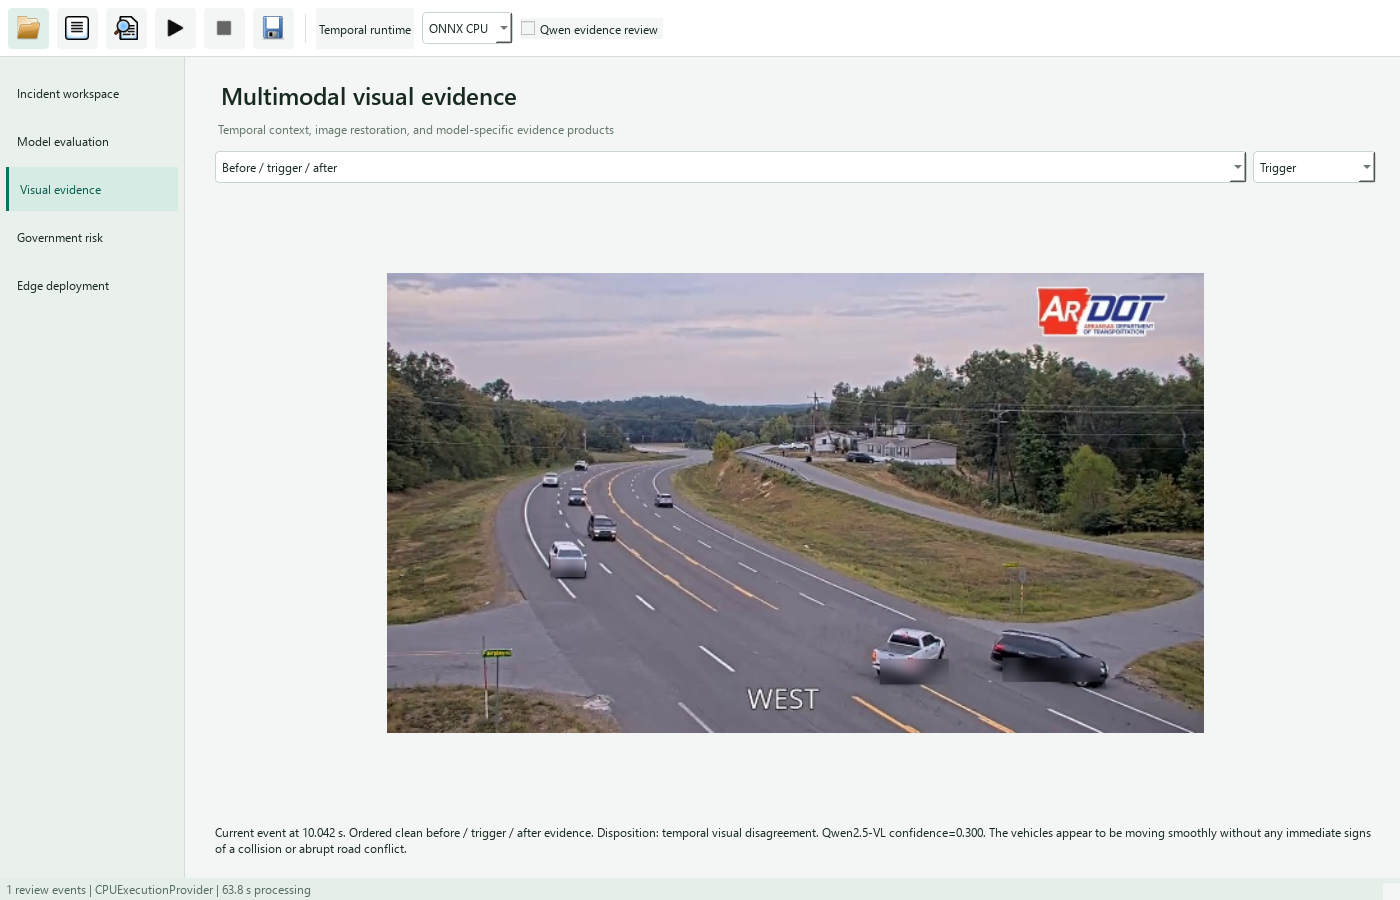
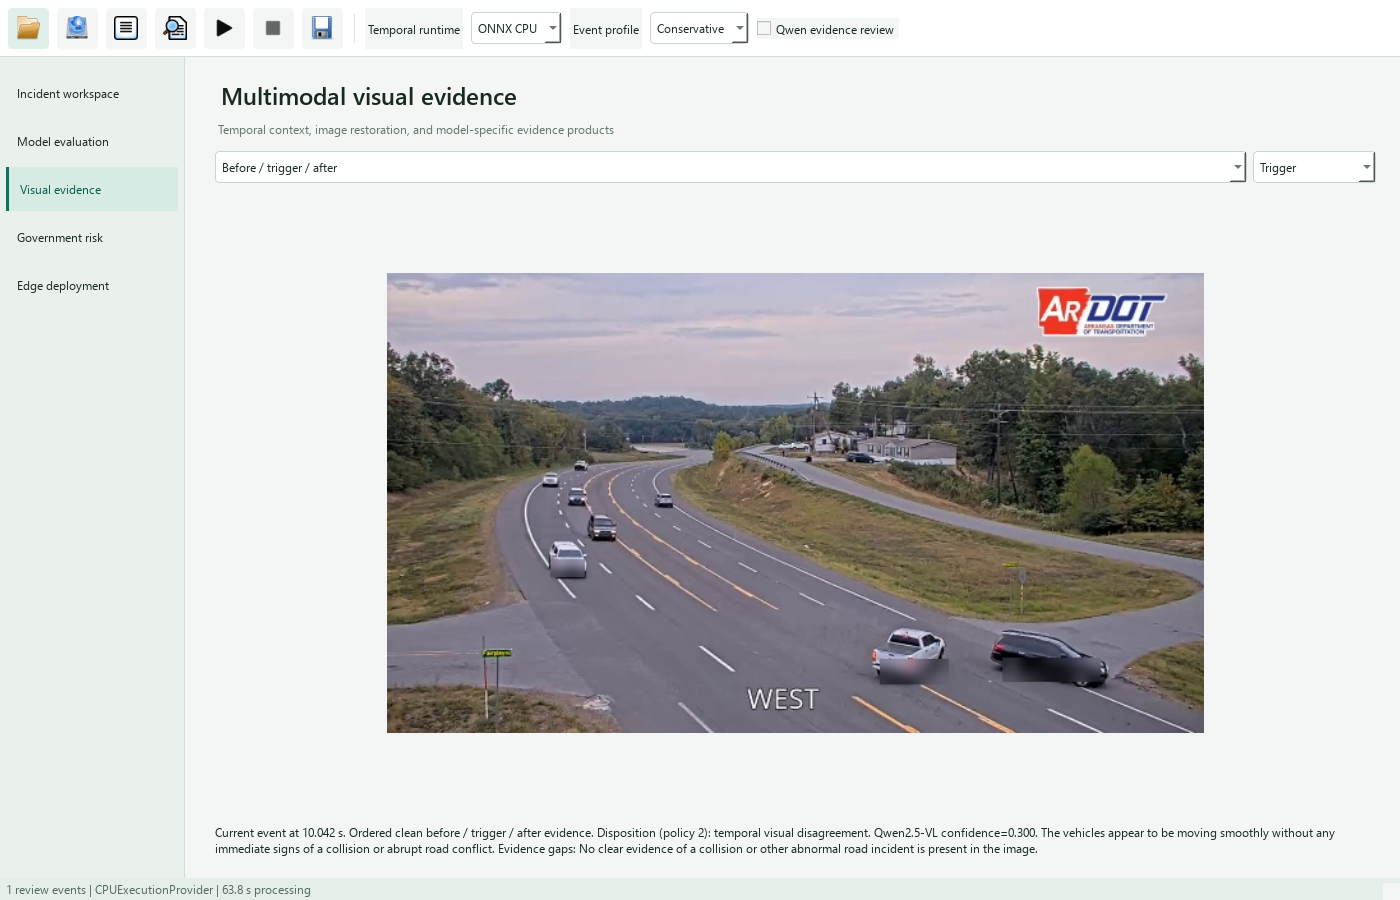
Preserve multimodal evidence gaps in versioned review routing

diff --git a/scripts/evaluate_vlm_review_dispositions.py b/scripts/evaluate_vlm_review_dispositions.py
@@ -1,0 +1,63 @@
+from __future__ import annotations
+
+import argparse
+from collections import Counter
+import hashlib
+import json
+from pathlib import Path
+import sys
+
+import numpy as np
+
+ROOT = Path(__file__).resolve().parents[1]
+sys.path.insert(0, str(ROOT / "Application/DebugVersion/src"))
+from illegal_parking.incident_vlm_evidence import REVIEW_POLICY_VERSION, review_disposition
+
+
+def summarize_support(rows, accepted):
+    positives = sum(row["expected_collision"] for row in rows)
+    true = sum(row["expected_collision"] for row, keep in zip(rows, accepted) if keep)
+    count = sum(accepted)
+    return {"supported_cases": count, "supported_true_cases": true, "supported_false_cases": count - true,
+            "supported_positive_precision": true / count if count else None,
+            "support_coverage_of_positive_cases": true / positives if positives else None,
+            "unresolved_cases": len(rows) - count}
+
+
+def main():
+    parser = argparse.ArgumentParser(description="Evaluate selective VLM evidence support without treating deferred cases as negative predictions.")
+    parser.add_argument("--input", type=Path, default=ROOT / "outputs/validation/incident_vlm_paired")
+    parser.add_argument("--output", type=Path, default=ROOT / "docs/results/vlm_review_dispositions.json")
+    args = parser.parse_args()
+    summary_path = ROOT / "docs/results/incident_vlm_qwen_greedy_batch.json"
+    measured = json.loads(summary_path.read_text(encoding="utf-8"))
+    manifest_path = args.input / "manifest.json"
+    manifest = json.loads(manifest_path.read_text(encoding="utf-8"))
+    rows, outcomes, sources = [], [], []
+    for case in manifest["cases"]:
+        path = args.input / case["case_id"] / "qwen_greedy_result.json"
+        row = json.loads(path.read_text(encoding="utf-8"))
+        if row["case_id"] != case["case_id"] or row["expected_collision"] != case["expected_collision"]:
+            raise ValueError("Blinded review case and evaluator labels differ")
+        rows.append(row)
+        outcomes.append(review_disposition(True, row))
+        sources.append({"case_id": row["case_id"], "report_sha256": hashlib.sha256(path.read_bytes()).hexdigest(), "input_signature": row["input_signature"], "expected_collision": row["expected_collision"], "disposition": outcomes[-1]})
+    if len(rows) != measured["total_cases"] or not np.isclose(np.mean([row["elapsed_sec"] for row in rows]), measured["mean_review_sec"], rtol=0, atol=1e-8) or sum(row["schema_valid"] for row in rows) != measured["valid_schema_cases"]:
+        raise ValueError("Review cohort does not match the published controlled Qwen study")
+    prior = [row["schema_valid"] and row["likely_violation"] and row["confidence"] >= 0.7 for row in rows]
+    accepted = [outcome == "consistent_visual_support" for outcome in outcomes]
+    result = {"model": measured["model"], "model_revision": measured["model_revision"], "decoding": measured["decoding"], "cases": len(rows),
+              "source_clips": manifest["selected_clips"], "policy_version": REVIEW_POLICY_VERSION,
+              "source_manifest_sha256": hashlib.sha256(manifest_path.read_bytes()).hexdigest(), "source_summary_sha256": hashlib.sha256(summary_path.read_bytes()).hexdigest(),
+              "confidence_only_support": summarize_support(rows, prior), "structured_support": summarize_support(rows, accepted),
+              "dispositions": dict(Counter(outcomes)), "source_cases": sources,
+              "protocol": "Apply a candidate-positive review gate to the fixed blinded paired-sequence cohort; honor schema, evidence gaps, review requests, confidence and rationale without changing raw VLM predictions",
+              "endpoint": "Selective positive visual support and unresolved coverage; abstentions are not true negatives and raw classification metrics remain unchanged",
+              "scope": "Paired annotation-defined sequences are not a measured TCN-triggered field cohort; emitted model reasons are not independent ground truth"}
+    args.output.parent.mkdir(parents=True, exist_ok=True)
+    args.output.write_text(json.dumps(result, indent=2) + "\n", encoding="utf-8")
+    print(json.dumps({key: result[key] for key in ("confidence_only_support", "structured_support", "dispositions")}, indent=2))
+
+
+if __name__ == "__main__":
+    main()

diff --git a/tests/test_desktop_app.py b/tests/test_desktop_app.py
@@ -116,6 +116,16 @@ def test_evidence_selection_loads_real_images(window):
         assert window.evidence_text.text()
 
 
+def test_visual_evidence_recomputes_current_policy_and_exposes_evidence_gaps(window):
+    window.report = {"events": [{"trigger_time_sec": 2, "evidence": {"contact_sheet": str(window.root / "docs/assets/incident_vlm_clean_evidence.jpg")}, "review_disposition": "corroborated_incident", "vlm_review": {"schema_valid": True, "likely_violation": True, "confidence": 0.95, "visual_reasons": ["Vehicle interaction"], "missing_evidence": ["Collision moment absent"], "human_review_needed": True}}]}
+    window.frame_choice.setCurrentIndex(0)
+    window.show_evidence(0)
+    assert "incomplete visual evidence" in window.evidence_text.text()
+    assert "Collision moment absent" in window.evidence_text.text()
+    assert "Operator review requested" in window.evidence_text.text()
+    assert "corroborated incident" not in window.evidence_text.text()
+
+
 def test_extended_model_tab_uses_all_matched_models_and_ranking_metrics(window):
     tabs = window.pages.widget(1).findChild(QTabWidget)
     tabs.setCurrentIndex(1)
@@ -184,6 +194,7 @@ def test_native_capture_cancel_is_cooperative(window, mjpeg_server):
     assert window.cancelled
     assert window.job.state() == QProcess.ProcessState.NotRunning
     assert not window.actions_by_name["Analyze"].isEnabled()
+    assert not list(window.output_dir.glob("camera_frames_*"))
 
 
 def test_native_continuous_worker_runs_without_waiting_for_capture_completion(window, mjpeg_server):
@@ -201,7 +212,6 @@ def test_native_continuous_worker_runs_without_waiting_for_capture_completion(wi
     assert window.report["acquisition"]["decoded_frames"] >= window.report["sampled_frames"]
     assert window.actions_by_name["Export results"].isEnabled()
     assert not window.preview_timer.isActive()
-    assert not list(window.output_dir.glob("camera_frames_*"))
 
 
 def test_cancel_analysis_terminates_the_active_worker(window):

diff --git a/Application/DebugVersion/src/illegal_parking/desktop_app.py b/Application/DebugVersion/src/illegal_parking/desktop_app.py
@@ -21,7 +21,7 @@ from PySide6.QtWidgets import (
 
 from .onnx_runtime import runtime_capabilities
 from .project_snapshot import build_project_snapshot
-from .incident_vlm_evidence import review_disposition
+from .incident_vlm_evidence import REVIEW_POLICY_VERSION, review_disposition
 from .cctv_capture import load_camera_observation, redacted_camera_url
 
 
@@ -351,8 +351,12 @@ class TrafficResearchWindow(QMainWindow):
             text = f'Current event at {event["trigger_time_sec"]:.3f} s. Ordered clean before / trigger / after evidence.'
             if "vlm_review" in event:
                 review = event["vlm_review"]
-                disposition = event.get("review_disposition", review_disposition(True, review)).replace("_", " ")
-                text += f' Disposition: {disposition}. Qwen2.5-VL confidence={review["confidence"]:.3f}. ' + " ".join(review["visual_reasons"])
+                disposition = review_disposition(True, review).replace("_", " ")
+                text += f' Disposition (policy {REVIEW_POLICY_VERSION}): {disposition}. Qwen2.5-VL confidence={review["confidence"]:.3f}. ' + " ".join(review["visual_reasons"])
+                if review.get("missing_evidence"):
+                    text += " Evidence gaps: " + "; ".join(review["missing_evidence"])
+                if review.get("human_review_needed"):
+                    text += " Operator review requested."
         pixmap = QPixmap(str(image_path))
         if index == 0 and self.report is None and frame_name is not None:
             offset = self.frame_choice.currentIndex() - 1

diff --git a/tests/test_incident_vlm_evidence.py b/tests/test_incident_vlm_evidence.py
@@ -121,3 +121,14 @@ def test_visual_disagreement_retains_temporal_event_for_review():
     assert review_disposition(False, review) == "consistent_background"
     assert review_disposition(True, {**review, "schema_valid": False}) == "response_contract_review"
     assert review_disposition(True, {**review, "likely_violation": True, "confidence": 0.3}) == "low_confidence_review"
+
+
+def test_visual_agreement_does_not_override_missing_evidence_or_requested_review():
+    review = {"schema_valid": True, "likely_violation": True, "confidence": 0.95, "visual_reasons": ["Visible contact"], "missing_evidence": [], "human_review_needed": False}
+    assert review_disposition(True, review) == "consistent_visual_support"
+    assert review_disposition(True, {**review, "missing_evidence": ["Collision moment absent"]}) == "incomplete_visual_evidence"
+    assert review_disposition(True, {**review, "human_review_needed": True}) == "operator_review_requested"
+    assert review_disposition(True, {**review, "visual_reasons": []}) == "missing_visual_rationale"
+    assert review_disposition(True, {**review, "confidence": float("nan")}) == "response_contract_review"
+    assert review_disposition(True, {**review, "confidence": 1.1}) == "response_contract_review"
+    assert review_disposition(True, {**review, "confidence": "invalid"}) == "response_contract_review"

diff --git a/Application/DebugVersion/src/illegal_parking/incident_vlm_evidence.py b/Application/DebugVersion/src/illegal_parking/incident_vlm_evidence.py
@@ -7,14 +7,29 @@ from pathlib import Path
 from typing import Any
 
 
+REVIEW_POLICY_VERSION = 2
+
+
 def review_disposition(temporal_positive: bool, review: dict[str, Any]) -> str:
     if not review.get("schema_valid", False):
         return "response_contract_review"
+    try:
+        confidence = float(review["confidence"])
+    except (KeyError, ValueError, TypeError):
+        return "response_contract_review"
+    if not math.isfinite(confidence) or not 0 <= confidence <= 1 or not isinstance(review.get("likely_violation"), bool):
+        return "response_contract_review"
     if bool(review["likely_violation"]) != temporal_positive:
         return "temporal_visual_disagreement"
-    if float(review["confidence"]) < 0.7:
+    if review.get("missing_evidence"):
+        return "incomplete_visual_evidence"
+    if review.get("human_review_needed", False):
+        return "operator_review_requested"
+    if confidence < 0.7:
         return "low_confidence_review"
-    return "corroborated_incident" if temporal_positive else "consistent_background"
+    if temporal_positive and not review.get("visual_reasons"):
+        return "missing_visual_rationale"
+    return "consistent_visual_support" if temporal_positive else "consistent_background"
 
 
 def write_clean_review_package(

diff --git a/scripts/analyze_desktop_video.py b/scripts/analyze_desktop_video.py
@@ -43,7 +43,7 @@ def main() -> None:
     from ultralytics import YOLO
     from illegal_parking.incident_video_pipeline import run_candidate_incident_inference
     from illegal_parking.onnx_runtime import OnnxIncidentPredictor
-    from illegal_parking.incident_vlm_evidence import write_clean_review_package, review_disposition
+    from illegal_parking.incident_vlm_evidence import REVIEW_POLICY_VERSION, write_clean_review_package, review_disposition
     from illegal_parking.cctv_capture import load_camera_observation
     from run_candidate_incident_video import _write_annotated_video, _blur_plate_region
 
@@ -141,6 +141,7 @@ def main() -> None:
                 "seed": 42,
             }
             event["review_disposition"] = review_disposition(True, event["vlm_review"])
+            event["review_disposition_policy_version"] = REVIEW_POLICY_VERSION
             Path(event["evidence"]["request_json"]).with_name("vlm_raw.txt").write_text(raw, encoding="utf-8")
     report["elapsed_sec"] = time.perf_counter() - started
     report["vlm_requested"] = args.vlm_review

diff --git a/tests/test_vlm_review_dispositions.py b/tests/test_vlm_review_dispositions.py
@@ -1,0 +1,13 @@
+from scripts.evaluate_vlm_review_dispositions import summarize_support
+
+
+def test_unresolved_reviews_do_not_become_true_negatives_or_perfect_precision():
+    rows = [{"expected_collision": True}, {"expected_collision": False}]
+    result = summarize_support(rows, [False, False])
+    assert result["supported_positive_precision"] is None
+    assert result["support_coverage_of_positive_cases"] == 0
+    assert result["unresolved_cases"] == 2
+    assert "accuracy" not in result
+    accepted = summarize_support(rows, [True, True])
+    assert accepted["supported_positive_precision"] == 0.5
+    assert accepted["supported_false_cases"] == 1

diff --git a/docs/vlm_evidence_routing.md b/docs/vlm_evidence_routing.md
@@ -1,0 +1,54 @@
+# Evidence-Aware Multimodal Review Routing
+
+## Operational Role
+
+The temporal model emits an event before optional VLM service. The VLM inspects
+ordered privacy-treated imagery and returns visual reasons, evidence gaps,
+confidence, and an operator-review request. Its role is evidence triage, not
+replacement of the original event record or independent verification of a
+collision label. Streaming exports its post-context package while immediate
+notification remains independent of review-service capacity.
+
+## Disposition Contract
+
+Policy version 2 distinguishes invalid responses, temporal/visual disagreement,
+incomplete evidence, requested operator review, low confidence, missing visual
+rationale, and consistent visual support. Positive support requires schema
+validity, agreement with the candidate, finite confidence at least 0.7,
+no declared evidence gap, no operator-review request, and a visual rationale.
+The confidence value is model-reported, not a calibrated correctness probability.
+
+The desktop displays evidence gaps and requested review. Saved reports retain
+their original model response; the UI derives the current policy outcome
+instead of trusting an obsolete confirmation label. New analysis records the
+policy version alongside the disposition. No VLM outcome removes the temporal
+event from the report.
+
+## Controlled Cohort Reanalysis
+
+The fixed greedy Qwen cohort contains 20 annotation-defined sequences from ten
+IID test clips. Raw structured classification remains 14/20 correct. A
+confidence-only positive-support rule accepts eight sequences: six annotated
+positives and two annotated negatives, giving 0.75 precision among supported
+cases and 0.60 coverage of annotated positives.
+
+All eight positive responses also declare evidence gaps. Policy version 2
+therefore routes eight sequences to incomplete-evidence review and twelve to
+temporal/visual disagreement. No sequence receives fully supported status in
+this cohort. Supported-case precision is undefined, not 1.0; all 20 remain
+unresolved by the selective support gate. The original classification metrics
+and model outputs are unchanged.
+
+This result distinguishes JSON validity, raw classification, and operational
+evidence sufficiency. It motivates targeted temporal context and explicit
+review outcomes rather than interpreting high self-reported confidence as
+confirmation. The paired-sequence cohort is not a measured TCN-triggered field
+cohort, and a missing-evidence declaration is evaluated as a routing signal,
+not as an independently established scene fact.
+
+[Case-level routing and source hashes](results/vlm_review_dispositions.json)
+
+```powershell
+python scripts/evaluate_vlm_review_dispositions.py
+python -m pytest tests/test_incident_vlm_evidence.py tests/test_vlm_review_dispositions.py tests/test_desktop_app.py
+```

diff --git a/README.md b/README.md
@@ -67,6 +67,9 @@ and decision-availability timestamps accompany exported events. A one-frame
 acquisition mailbox and bounded temporal buffers prevent growing inference
 backlog. [Streaming protocol and measured latency](docs/streaming_inference.md).
 
+VLM review preserves visual reasons, evidence gaps, and operator-review
+requests without removing temporal events. [Evidence-routing protocol](docs/vlm_evidence_routing.md).
+
 [Desktop architecture and deployment protocol](docs/desktop_application.md)
 
 On Windows, `RunTrafficWorkbench.cmd` launches the installed native application.
